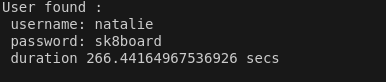
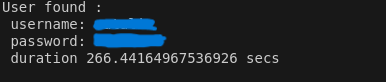
for security

Changed region(s): [[0.2176, 0.2195, 0.4352, 0.5854]]

diff --git a/readMe.md b/readMe.md
@@ -11,10 +11,20 @@ I don't have any idea about the site I would be hacking, I was just provided wit
 
 - **Inpect Login Page**
 
-First off I open the `ip` in my browser  ![Login page](./pictures/site.png) I see that the login page is a simple HTML page with a form that accepts username and password. Now i try with a fake credential to see if I can pypass it. ![fake login attempt](./pictures/2_first_attempt_error.png) It returns error messages right below the button.
+First off I open the `ip` in my browser  
+
+![Login page](./pictures/site.png) 
+
+I see that the login page is a simple HTML page with a form that accepts username and password. Now i try with a fake credential to see if I can pypass it. 
+
+![fake login attempt](./pictures/2_first_attempt_error.png) 
+
+It returns error messages right below the button.
 `<strong>Error:</strong> The user &#39;admin&#39; does not exist`. That's great!!!.
 *Now what to do next ?*
-Let investigate the page source code ![page source code](./pictures/3_first_attempt_source_code.png)
+Let investigate the page source code 
+
+![page source code](./pictures/3_first_attempt_source_code.png)
 
 ### Creating python script to brute force
 
@@ -22,23 +32,30 @@ Now that I now how the source code looks like, I would write a python script to 
 
 - **Try with default payload to see response:**
     Upon investigation, I noticed the form fields are `username` and `password` so I will use that in the request payload to make my initial request.
+
     ![first script](./pictures/1_script.png)
+
     ![first response](./pictures/1_response.png)
+
 - **now I will brute force with the usernames provided**:
   - *Initial trial* ![script](./pictures/2_script.png)
 
       From the code, I loaded the usernames in the form of an array and loop over it while making requests to the url and printing out the results.
+      
       ![response](./pictures/2_response.png)
 
       Ooops captcha!!! Another error `<p class="error"><strong>Error:</strong> Invalid captcha`  
 
   - *Solving the capture:* Now we would try solving the capture by utilizing regular expressions (*regex*)
-    ![script](/pictures/3_script.png)
+
+    ![script](./pictures/3_script.png)
 
     From the code, I have implemented a capture solving fuction utilizing the module `rs`. So now capture is resolved as we can see. Now I notice anytime there is an unsuccessful login, there is an error string in the response so after solving a problem I try capturing othere errors in the response and behold we have a `username`.
-    ![response](/pictures/3_response.png)
+
+    ![response](./pictures/3_response.png)
 
   - *Brute force password:* Now that I have a username, I try to brute force the password against the username I have found.
+
     ![script](./pictures/4_script.png)
     Boom!!!
 
@@ -47,6 +64,7 @@ Now that I now how the source code looks like, I would write a python script to 
 ### **Test results**
 
 Now that i have a username and password, let use it on the login page
+
 ![flag](./pictures/flag.png)
 
 ### **Conclusion**
